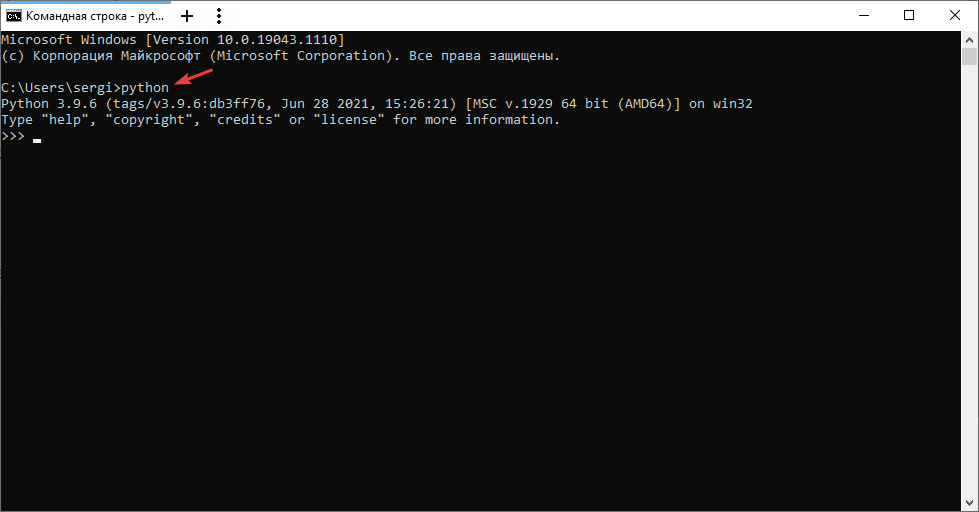
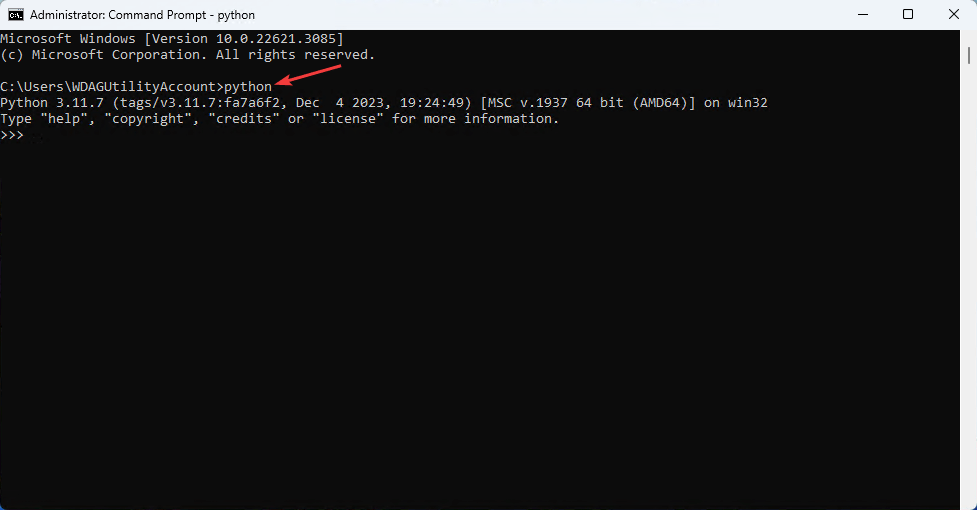
Update article "Установка Python"

diff --git a/install-python/install-python.md b/install-python/install-python.md
@@ -1,5 +1,6 @@
 ---
 date: 2021-08-03
+update: 2024-01-25
 categories: [it, program]
 tags: [Установка, Python]
 author: Anton Sergienko
@@ -35,17 +36,11 @@ attribution:
 
 _Рисунок 1 — Выбор последней версии Python под Windows_
 
----
-
-**Замечание про Python 3.8 для знающих** <!-- !details -->
-
-На момент написания статьи всё еще есть известные и нужные библиотеки, которые под Python 3.9 не адаптированы. Поэтому есть смысл установить Python 3.8. Для этого на странице <https://www.python.org/downloads/windows/> находим такой последний релиз Python 3.8, в котором присутствует строка `Download Windows installer (64-bit)` и скачиваем этот файл:
+Но обычно с момента выхода новой версии Python проходит несколько месяцев или год, когда известные и нужные библиотеки адаптируются под новую версию. Поэтому есть смысл установить предыдущую версию Python. То есть, например, на скрине выше последняя версия — 12 (у вас может быть уже другая). Значит стоит выбрать Python 11. Для этого на странице <https://www.python.org/downloads/windows/> находим такой последний релиз Python, в котором присутствует строка `Download Windows installer (64-bit)` и скачиваем этот файл:
 
 ![Выбор предыдущей версии Python под Windows](img/download_02.png)
 
 _Рисунок 2 — Выбор предыдущей версии Python под Windows_
-
-Например, на скрине выше для Python 3.8.11 еще нет выложенных собранных установщиков, а под 3.8.10 есть. Конечно, если вы умеете, то установщик вам не нужен, но в таком случае вы бы на эту статью не попали. Дальнейшие действия я буду показывать на Python 3.9.
 
 ---
 
@@ -61,7 +56,7 @@ _Рисунок 3 — Выбор установки по умолчанию_
 
 _Рисунок 4 — Выбор установки по умолчанию_
 
-На последнем шаге уберите ограничение на длину пути к файлу в Windows:
+Также возможен пункт на удаление ограничение на длину пути к файлу в Windows:
 
 ![Снятие ограничение на длину пути](img/install_03.png)
 
@@ -77,9 +72,13 @@ _Рисунок 6 — Конец установки_
 
 Запустите командную строку `cmd` или любой другой терминал (например, `Windows Terminal`). Это можно сделать многими способами. Можно, например, через поиск:
 
-![Запуск командной строки](img/cmd_01.png)
+![Запуск командной строки в Windows 10](img/cmd_old.png)
 
-_Рисунок 7 — Запуск командной строки_
+_Рисунок 7 — Запуск командной строки в Windows 10_
+
+![Запуск командной строки в Windows 11](img/cmd_01.png)
+
+_Рисунок 7 — Запуск командной строки в Windows 11_
 
 Введите команду `python` и нажмите `Enter`, чтобы запустить интерпретатор Python:
 
